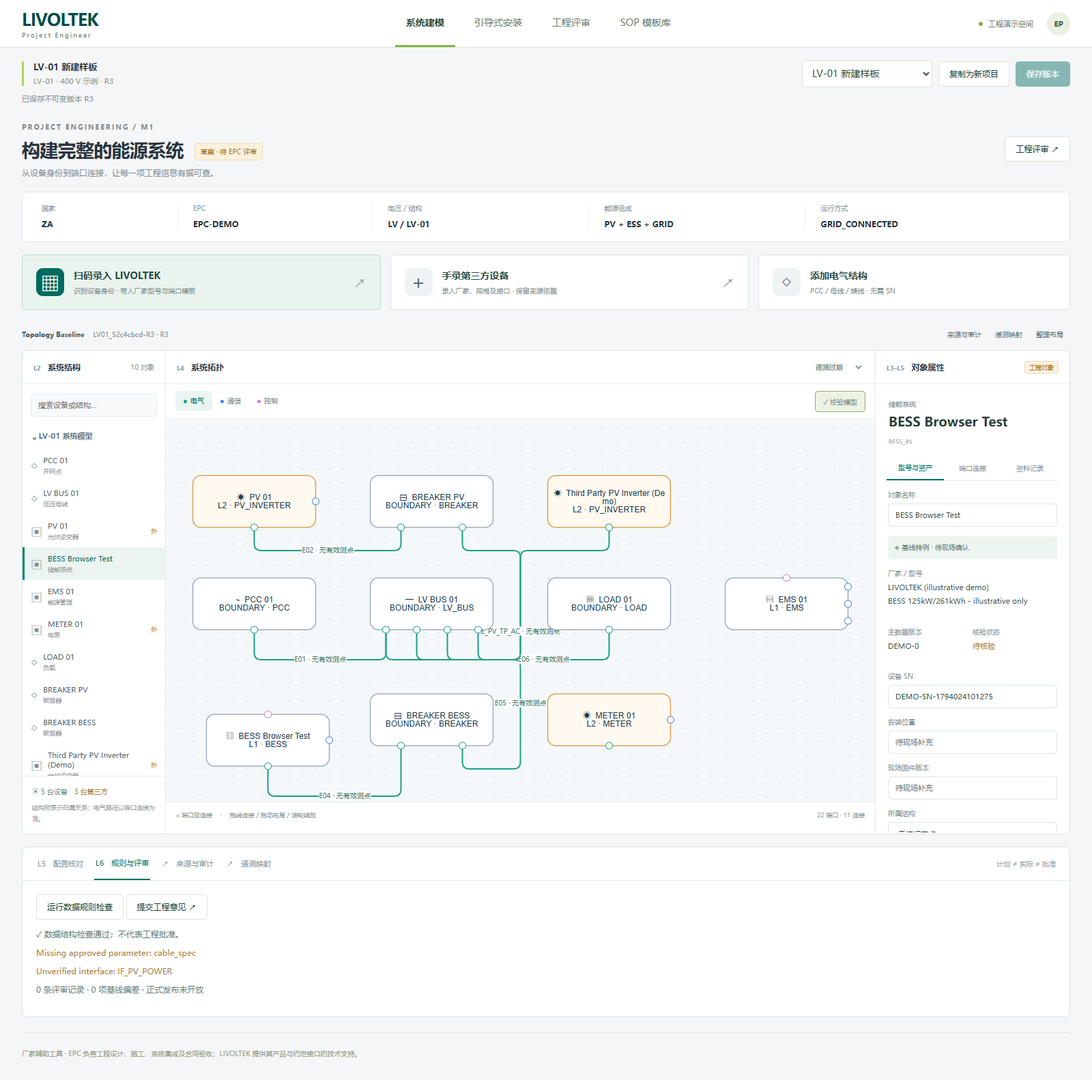
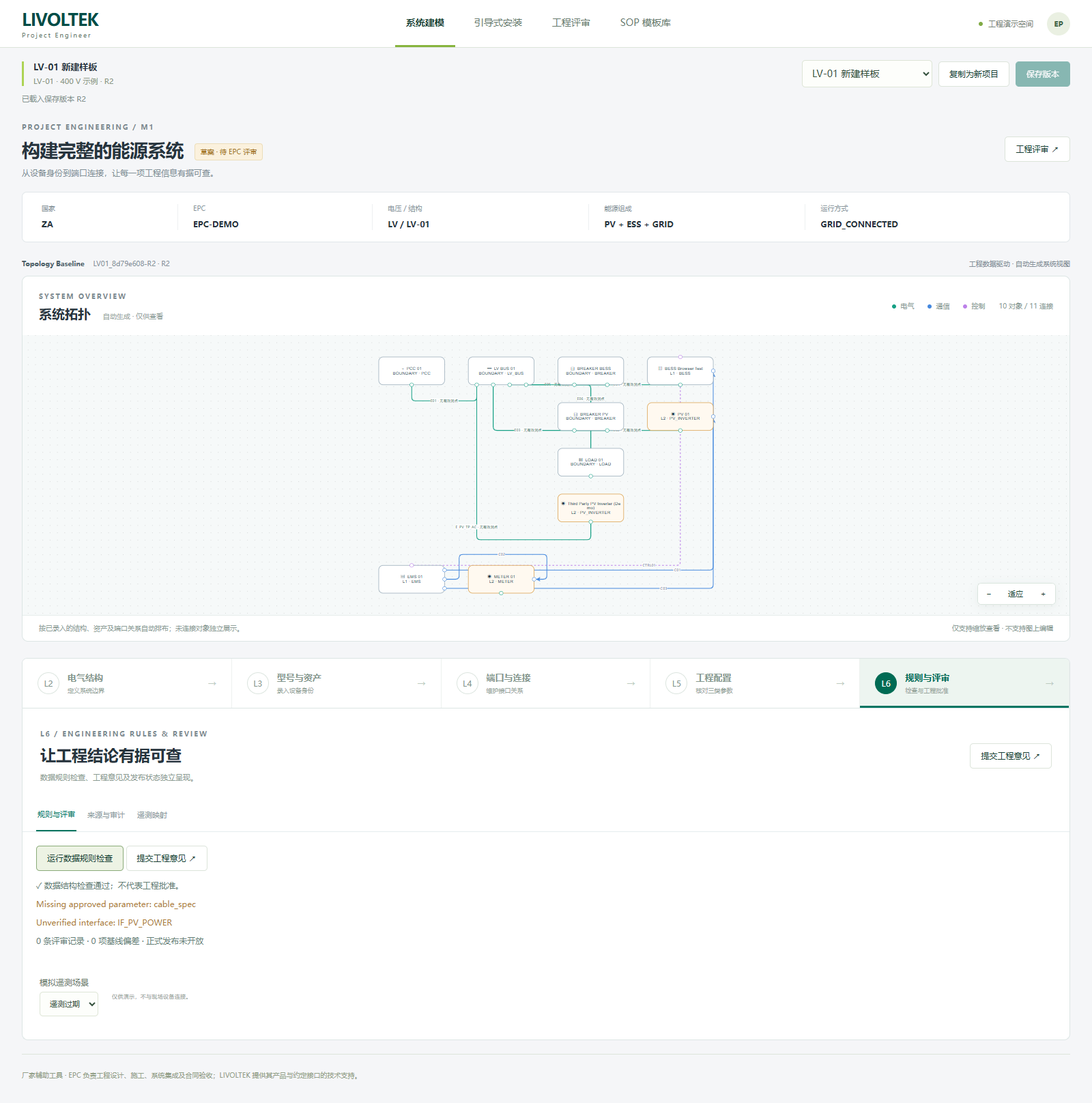
Organize M1 into L2-L6 workflows with generated read-only topology

diff --git a/frontend/src/M1.tsx b/frontend/src/M1.tsx
@@ -13,10 +13,11 @@ const uid=(s:string)=>s+'_'+crypto.randomUUID().slice(0,8)
 const demoCode='LIVOLTEK:DEMO-BESS-125:DEMO-SN-0001'
 export function M1({model,change,selected,select,flows,review,reviews,revision,scenario,setScenario}:Props){
  const [mode,setMode]=useState<'scan'|'manual'|'structure'|null>(null),[layer,setLayer]=useState<Kind>('ELECTRICAL'),[panel,setPanel]=useState('型号与资产'),[bottom,setBottom]=useState('配置核对')
+ const [stage,setStage]=useState('L2')
  const [from,setFrom]=useState(''),[to,setTo]=useState('')
  const [search,setSearch]=useState(''),[code,setCode]=useState(''),[resolved,setResolved]=useState(false),[error,setError]=useState(''),[result,setResult]=useState<{valid:boolean;errors:string[];warnings:string[]}|null>(null)
  const [form,setForm]=useState({name:'',manufacturer:'',model:'',sn:'',firmware:'',location:'',type:'PV_INVERTER',parent:'',document:'',domains:['AC','RS485'] as string[]})
- const canvasModel=useMemo(()=>({...model,view_layout:{...model.view_layout,layer_visibility:{ELECTRICAL:layer==='ELECTRICAL',COMMUNICATION:layer==='COMMUNICATION',CONTROL:layer==='CONTROL'}}}),[model,layer])
+ const canvasModel=useMemo(()=>({...model,view_layout:{...model.view_layout,layer_visibility:{ELECTRICAL:true,COMMUNICATION:true,CONTROL:true}}}),[model])
  const node=model.nodes.find(n=>n.node_id===selected),asset=model.device_assets.find(a=>a.asset_id===node?.device_asset_id),device=model.device_models.find(d=>d.model_id===asset?.model_id),edge=model.edges.find(e=>e.edge_id===selected)
  const ports=model.ports.filter(p=>p.node_id===selected),parameters=model.parameters as Parameter[]
  const third=model.device_assets.filter(a=>a.equipment_origin==='THIRD_PARTY').length
@@ -34,27 +35,29 @@ export function M1({model,change,selected,select,flows,review,reviews,revision,s
   m.nodes.push({node_id:nid,logical_id:nid,name:form.name.trim(),node_type:form.type,parent_node_id:form.parent||null,zone_id:form.parent?m.nodes.find(n=>n.node_id===form.parent)?.zone_id||null:null,device_asset_id:structure?null:aid,icon_key:form.type.toLowerCase(),relationship_reason:'ENERGY_PATH',attributes:{entry_method:mode==='scan'?'QR_DEMO':mode==='manual'?'MANUAL':'STRUCTURE',recorded_at:new Date().toISOString(),source_ref:form.document||'待补充',source_quality:'UNVERIFIED'}})
   if(!structure){m.device_models.push({model_id:mid,manufacturer:form.manufacturer.trim(),model_name:form.model.trim(),master_data_version:mode==='scan'?'DEMO-1':'MANUAL-DRAFT-1',source_quality:'UNVERIFIED',datasheet_ref:form.document||null,...(mode==='scan'?{rated_parameters:{rated_power:{value:125,unit:'kW',source:'MASTER_DATA',status:'DRAFT',source_ref:'DEMO-CATALOG-1'},capacity:{value:261,unit:'kWh',source:'MASTER_DATA',status:'DRAFT',source_ref:'DEMO-CATALOG-1'}}}:{})});m.device_assets.push({asset_id:aid,model_id:mid,serial_number:form.sn.trim()||null,sn_status:mode==='scan'?'SCANNED':'PENDING',firmware_version:form.firmware||null,installed_location:form.location||null,lifecycle_status:'PLANNED',equipment_origin:mode==='scan'?'LIVOLTEK':'THIRD_PARTY',modeling_level:mode==='scan'?'L1_FULL':'L2_INTERFACE',responsibility_owner:mode==='scan'?'LIVOLTEK 产品支持 / EPC 系统工程':'EPC / 第三方厂家',authorization:{read_allowed:false,write_allowed:false,test_execution_allowed:false}})}
   for(const d of form.domains)m.ports.push({port_id:nid+'.'+d,node_id:nid,name:d,domain:d,role:'BIDIRECTIONAL',attributes:{source:mode==='scan'?'DEMO_TEMPLATE':'MANUAL',verified:false}})
-  m.view_layout.positions[nid]={x:80+(m.nodes.length%4)*220,y:650+Math.floor(m.nodes.length/4)*110};change(m);select(nid);setMode(null)
+  m.view_layout.positions[nid]={x:80+(m.nodes.length%4)*220,y:650+Math.floor(m.nodes.length/4)*110};change(m);select(nid);setStage(structure?'L2':'L3');setPanel('型号与资产');setMode(null)
  }
- async function validate(){try{setResult(await api('/validate',model));setBottom('规则与评审')}catch(e){setError(String(e))}}
+ async function validate(){try{setResult(await api('/validate',model));setBottom('规则与评审');setStage('L6')}catch(e){setError(String(e))}}
  function tree(parent:string|null,depth=0,seen=new Set<string>()):React.ReactNode{return model.nodes.filter(n=>(n.parent_node_id||null)===parent&&!seen.has(n.node_id)).map(n=>{const next=new Set(seen).add(n.node_id);const a=model.device_assets.find(a=>a.asset_id===n.device_asset_id);return <div key={n.node_id}><button className={'treeNode '+(selected===n.node_id?'chosen':'')} style={{paddingLeft:12+depth*13}} onClick={()=>select(n.node_id)}><span className="treeIcon">{n.device_asset_id?'▣':'◇'}</span><span>{n.name}<small>{labels[n.node_type]||n.node_type}</small></span>{a?.equipment_origin==='THIRD_PARTY'&&<i>外</i>}</button>{depth<15&&tree(n.node_id,depth+1,next)}</div>})}
  return <section className="m1">
   <div className="m1Title"><div><span className="kicker">PROJECT ENGINEERING / M1</span><h1>构建完整的能源系统<span className="draft">草案 · 待 EPC 评审</span></h1><p>从设备身份到端口连接，让每一项工程信息有据可查。</p></div><button onClick={review}>工程评审 ↗</button></div>
   <div className="projectFacts">{[['国家',String(model.project.country_code)],['EPC',String(model.project.epc_org_id)],['电压 / 结构',`${model.project.voltage_level} / ${model.project.structure_code}`],['能源组成',(model.project.energy_features as string[]).join(' + ')],['运行方式',(model.project.operation_modes as string[]).join(' / ')]].map(([k,v])=><div key={k}><small>{k}</small><strong>{v}</strong></div>)}</div>
-  <div className="intake"><button className="scanEntry" onClick={()=>open('scan')}><span className="entryIcon">▦</span><span><strong>扫码录入 LIVOLTEK</strong><small>识别设备身份 · 带入厂家型号与端口模板</small></span><b>↗</b></button><button onClick={()=>open('manual')}><span className="entryIcon">＋</span><span><strong>手录第三方设备</strong><small>录入厂家、规格及接口 · 保留来源依据</small></span><b>↗</b></button><button className="structureEntry" onClick={()=>open('structure')}><span className="entryIcon">◇</span><span><strong>添加电气结构</strong><small>PCC / 母线 / 馈线 · 无需 SN</small></span></button></div>
-  <div className="crossbar"><span><b>Topology Baseline</b> {model.baseline.baseline_id} · R{revision}</span><div><button onClick={()=>{setBottom('来源与审计')}}>来源与审计</button><button onClick={()=>setBottom('遥测映射')}>遥测映射</button><button onClick={()=>edit(m=>{m.nodes.forEach((n,i)=>m.view_layout.positions[n.node_id]={x:70+(i%4)*240,y:70+Math.floor(i/4)*180})})}>整理布局</button></div></div>
-  <div className="workbench"><aside className="systemTree"><div className="paneHeading"><span><em>L2</em> 系统结构</span><small>{model.nodes.length} 对象</small></div><input aria-label="搜索系统对象" placeholder="搜索设备或结构…" value={search} onChange={e=>setSearch(e.target.value)}/><div className="treeRoot">⌄ {model.project.structure_code} 系统模型</div><div className="treeScroll">{search?model.nodes.filter(n=>n.name.toLowerCase().includes(search.toLowerCase())).map(n=><button className="treeNode" key={n.node_id} onClick={()=>select(n.node_id)}>{n.name}</button>):tree(null)}</div><div className="treeFoot"><span>▣ {model.device_assets.length} 台设备</span><span className="amberText">{third} 台第三方</span><p>结构树表示归属关系；电气路径以端口连接为准。</p></div></aside>
-  <section className="topologyPane"><div className="paneHeading"><span><em>L4</em> 系统拓扑</span><select className="telemetrySelect" aria-label="模拟遥测" value={scenario} onChange={e=>setScenario(e.target.value)}>{[['normal','● 正常模拟'],['reverse','反向模拟'],['stale','遥测过期'],['missing','缺测']].map(([v,n])=><option key={v} value={v}>{n}</option>)}</select></div><div className="canvasTools"><div>{kinds.map(k=><button key={k} className={layer===k?'selectedLayer':''} onClick={()=>{setLayer(k);edit(m=>{for(const l of kinds)m.view_layout.layer_visibility[l]=l===k})}}><i style={{background:colors[k]}}/>{kindName[k]}</button>)}</div><button onClick={validate}>✓ 校验模型</button></div><Topology model={canvasModel} onChange={change} onSelect={select} layer={layer} flows={flows}/><div className="canvasLegend"><span>○ 端口级连接　 ·　 拖线连接 / 拖动布局 / 滚轮缩放</span><span>{model.ports.length} 端口 · {model.edges.length} 连接</span></div></section>
-  <aside className="detailPane"><div className="paneHeading"><span><em>L3–L5</em> 对象属性</span><span className="draft">{asset?.equipment_origin==='THIRD_PARTY'?'第三方':'工程对象'}</span></div><div className="objectTitle"><span>{node?labels[node.node_type]||node.node_type:'端口连接'}</span><h2>{node?.name||edge?.edge_id||'选择一个对象'}</h2><small>{selected}</small></div><div className="detailTabs">{['型号与资产','端口连接','资料记录'].map(t=><button key={t} className={panel===t?'active':''} onClick={()=>setPanel(t)}>{t}</button>)}</div>
-   {node&&panel==='型号与资产'&&<div className="detailBody"><label>对象名称<input aria-label="设备名称" value={node.name} onChange={e=>edit(m=>{m.nodes.find(n=>n.node_id===selected)!.name=e.target.value})}/></label>{asset?<><div className="sourceChip">{node.attributes?.entry_method==='QR_DEMO'?'▦ 扫码导入 · 演示主数据':asset.equipment_origin==='THIRD_PARTY'?'✎ 第三方录入 · 待核验':'◈ 基线样例 · 待现场确认'}</div><label>厂家 / 型号<strong className="readValue">{device?.manufacturer}<br/>{device?.model_name}</strong></label><div className="fieldPair"><label>主数据版本<strong className="readValue">{device?.master_data_version}</strong></label><label>核验状态<strong className="readValue amberText">{String(device?.source_quality||'待核验')}</strong></label></div><label>设备 SN<input aria-label="设备序列号" placeholder="待现场录入" value={asset.serial_number||''} onChange={e=>edit(m=>{const a=m.device_assets.find(a=>a.asset_id===asset.asset_id)!;a.serial_number=e.target.value||null;a.sn_status='PENDING'})}/></label>{(['installed_location','firmware_version'] as const).map((k,i)=><label key={k}>{i?'现场固件版本':'安装位置'}<input value={asset[k]||''} placeholder="待现场补充" onChange={e=>edit(m=>{m.device_assets.find(a=>a.asset_id===asset.asset_id)![k]=e.target.value||null})}/></label>)}</>:<div className="sourceChip">非 SN 电气结构对象，无需设备序列号。</div>}<label>所属结构<select value={node.parent_node_id||''} onChange={e=>edit(m=>{m.nodes.find(n=>n.node_id===selected)!.parent_node_id=e.target.value||null})}><option value="">系统根节点</option>{model.nodes.filter(n=>!n.device_asset_id&&n.node_id!==selected&&!(()=>{let p=n.parent_node_id;const seen=new Set<string>();while(p&&!seen.has(p)){if(p===selected)return true;seen.add(p);p=model.nodes.find(x=>x.node_id===p)?.parent_node_id||null}return false})()).map(n=><option key={n.node_id} value={n.node_id}>{n.name}</option>)}</select></label><div className="responsibility">EPC 负责系统设计与现场集成。厂家资料及扫码信息不代表工程批准。</div></div>}
-   {panel==='端口连接'&&<div className="detailBody">{ports.map(p=><div className="portRow" key={p.port_id}><b>{p.name}</b><span>{p.domain}</span><small>{p.port_id}</small></div>)}{edge&&<><p>来源：{edge.from_port_id}</p><p>目标：{edge.to_port_id}</p><label>设计依据<input value={edge.design_ref||''} onChange={e=>edit(m=>{m.edges.find(x=>x.edge_id===selected)!.design_ref=e.target.value||null})}/></label></>}<p className="muted">拖动同域端口，或使用精确连接。</p><label>来源端口<select aria-label="来源端口" value={from} onChange={e=>setFrom(e.target.value)}><option value="">选择来源</option>{model.ports.map(p=><option key={p.port_id}>{p.port_id}</option>)}</select></label><label>目标端口<select aria-label="目标端口" value={to} onChange={e=>setTo(e.target.value)}><option value="">选择目标</option>{model.ports.map(p=><option key={p.port_id}>{p.port_id}</option>)}</select></label><button disabled={!from||!to} onClick={async()=>{try{const m=structuredClone(model);m.edges.push({edge_id:uid('EDGE'),edge_type:layer,from_port_id:from,to_port_id:to,review_status:'DRAFT'});const v=await api<{valid:boolean;errors:string[]}>('/validate',m);if(!v.valid){setError(v.errors.join('; '));return}change(m);setError('');setFrom('');setTo('')}catch(e){setError(String(e))}}}>添加连接</button></div>}
+  <div className="crossbar"><span><b>Topology Baseline</b> {model.baseline.baseline_id} · R{revision}</span><span>工程数据驱动 · 自动生成系统视图</span></div>
+  <section className="systemOverview" aria-label="自动生成系统拓扑"><div className="overviewHeading"><div><span className="kicker">SYSTEM OVERVIEW</span><h2>系统拓扑 <span>自动生成 · 仅供查看</span></h2></div><div className="staticLegend">{kinds.map(k=><span key={k}><i style={{background:colors[k]}}/>{kindName[k]}</span>)}<span>{model.nodes.length} 对象 / {model.edges.length} 连接</span></div></div><Topology model={canvasModel} flows={flows}/><div className="overviewFoot"><span>按已录入的结构、资产及端口关系自动排布；未连接对象独立展示。</span><span>仅支持缩放查看 · 不支持图上编辑</span></div></section>
+  <nav className="stageNav" aria-label="工程数据分层">{[['L2','电气结构','定义系统边界'],['L3','型号与资产','录入设备身份'],['L4','端口与连接','维护接口关系'],['L5','工程配置','核对三类参数'],['L6','规则与评审','检查与工程批准']].map(([id,title,description])=><button key={id} className={stage===id?'active':''} aria-current={stage===id?'step':undefined} onClick={()=>{setStage(id);setError('');if(id==='L3'&&!asset)select(model.nodes.find(n=>n.device_asset_id)?.node_id||selected);if(id==='L6')setBottom('规则与评审')}}><b>{id}</b><span>{title}<small>{description}</small></span><i>→</i></button>)}</nav>
+  <section className="stageContent" aria-label={stage+' 作业区'}>
+   {stage==='L2'&&<><div className="stageHeading"><div><span className="kicker">L2 / ELECTRICAL STRUCTURE</span><h2>从电气结构开始</h2><p>定义 PCC、变压器区域、母线、馈线和断路器。结构对象无需 SN。</p></div><button className="primary" onClick={()=>open('structure')}>＋ 添加电气结构</button></div><div className="tableScroll"><table className="layerTable"><thead><tr><th>结构对象</th><th>类型</th><th>所属结构</th><th>端口数</th><th>来源</th></tr></thead><tbody>{model.nodes.filter(n=>!n.device_asset_id).map(n=><tr key={n.node_id}><td><input aria-label={'结构名称 '+n.node_id} value={n.name} onChange={e=>edit(m=>{m.nodes.find(x=>x.node_id===n.node_id)!.name=e.target.value})}/><small>{n.node_id}</small></td><td>{labels[n.node_type]||n.node_type}</td><td>{model.nodes.find(x=>x.node_id===n.parent_node_id)?.name||'系统根节点'}</td><td>{model.ports.filter(p=>p.node_id===n.node_id).length}</td><td><span className="sourceBadge">{n.attributes?.entry_method==='STRUCTURE'?'手动录入':'基线导入'}</span></td></tr>)}</tbody></table></div><div className="stageNext"><span>完成结构定义后，在 L3 录入并归属设备。</span><button onClick={()=>setStage('L3')}>继续：型号与资产 →</button></div></>}
+   {stage==='L3'&&<><div className="stageHeading"><div><span className="kicker">L3 / DEVICE MODEL & ASSET</span><h2>让设备进入系统</h2><p>{model.device_assets.length} 台设备 · {third} 台第三方 · 型号主数据与现场资产信息分别记录。</p></div><div className="stageActions"><button className="primary" onClick={()=>open('scan')}>▦ 扫码录入 LIVOLTEK</button><button onClick={()=>open('manual')}>＋ 手录第三方设备</button></div></div><div className="tableScroll"><table className="layerTable"><thead><tr><th>设备</th><th>厂家 / 型号</th><th>SN</th><th>录入来源</th><th>现场位置</th><th>详情</th></tr></thead><tbody>{model.nodes.filter(n=>n.device_asset_id).map(n=>{const a=model.device_assets.find(a=>a.asset_id===n.device_asset_id),d=model.device_models.find(d=>d.model_id===a?.model_id);return <tr key={n.node_id} className={selected===n.node_id?'selectedRow':''}><td><b>{n.name}</b><small>{labels[n.node_type]||n.node_type}</small></td><td>{d?.manufacturer}<small>{d?.model_name}</small></td><td>{a?.serial_number||'待录入'}</td><td><span className="sourceBadge">{n.attributes?.entry_method==='QR_DEMO'?'扫码 · 演示':n.attributes?.entry_method==='MANUAL'?'第三方手录':'基线导入'}</span></td><td>{a?.installed_location||'待补充'}</td><td><button aria-label={'查看设备 '+n.name} onClick={()=>{select(n.node_id);setPanel('型号与资产')}}>查看 / 补录</button></td></tr>})}</tbody></table></div><div className="inlineDetails"><div className="objectTitle"><span>当前设备</span><h2>{node?.name||'选择设备'}</h2><small>{selected}</small></div><div className="detailTabs">{['型号与资产','资料记录'].map(t=><button key={t} className={panel===t?'active':''} onClick={()=>setPanel(t)}>{t}</button>)}</div>   {node&&panel==='型号与资产'&&<div className="detailBody"><label>对象名称<input aria-label="设备名称" value={node.name} onChange={e=>edit(m=>{m.nodes.find(n=>n.node_id===selected)!.name=e.target.value})}/></label>{asset?<><div className="sourceChip">{node.attributes?.entry_method==='QR_DEMO'?'▦ 扫码导入 · 演示主数据':asset.equipment_origin==='THIRD_PARTY'?'✎ 第三方录入 · 待核验':'◈ 基线样例 · 待现场确认'}</div><label>厂家 / 型号<strong className="readValue">{device?.manufacturer}<br/>{device?.model_name}</strong></label><div className="fieldPair"><label>主数据版本<strong className="readValue">{device?.master_data_version}</strong></label><label>核验状态<strong className="readValue amberText">{String(device?.source_quality||'待核验')}</strong></label></div><label>设备 SN<input aria-label="设备序列号" placeholder="待现场录入" value={asset.serial_number||''} onChange={e=>edit(m=>{const a=m.device_assets.find(a=>a.asset_id===asset.asset_id)!;a.serial_number=e.target.value||null;a.sn_status='PENDING'})}/></label>{(['installed_location','firmware_version'] as const).map((k,i)=><label key={k}>{i?'现场固件版本':'安装位置'}<input value={asset[k]||''} placeholder="待现场补充" onChange={e=>edit(m=>{m.device_assets.find(a=>a.asset_id===asset.asset_id)![k]=e.target.value||null})}/></label>)}</>:<div className="sourceChip">非 SN 电气结构对象，无需设备序列号。</div>}<label>所属结构<select value={node.parent_node_id||''} onChange={e=>edit(m=>{m.nodes.find(n=>n.node_id===selected)!.parent_node_id=e.target.value||null})}><option value="">系统根节点</option>{model.nodes.filter(n=>!n.device_asset_id&&n.node_id!==selected&&!(()=>{let p=n.parent_node_id;const seen=new Set<string>();while(p&&!seen.has(p)){if(p===selected)return true;seen.add(p);p=model.nodes.find(x=>x.node_id===p)?.parent_node_id||null}return false})()).map(n=><option key={n.node_id} value={n.node_id}>{n.name}</option>)}</select></label><div className="responsibility">EPC 负责系统设计与现场集成。厂家资料及扫码信息不代表工程批准。</div></div>}
    {panel==='资料记录'&&<div className="detailBody"><h4>数据来源</h4><p>{String(node?.attributes?.entry_method||'基线文件导入')}</p><p>{String(node?.attributes?.recorded_at||'随项目基线保存')}</p><h4>文档依据</h4><p>{String(device?.datasheet_ref||node?.attributes?.source_ref||'待补充')}</p><h4>规格 / 厂家主数据</h4><pre>{JSON.stringify(device?.rated_parameters||{},null,2)}</pre><p className="muted">设备能力不等于操作授权。当前 Demo 不向设备下发指令。</p></div>}
-  </aside></div>
-  <section className="engineeringBottom"><div className="bottomTabs">{['配置核对','规则与评审','来源与审计','遥测映射'].map(t=><button className={bottom===t?'active':''} key={t} onClick={()=>setBottom(t)}>{t==='配置核对'?'L5':t==='规则与评审'?'L6':'↗'}　{t}</button>)}<span>计划 ≠ 实际 ≠ 批准</span></div>
-   {bottom==='配置核对'&&<div className="tableScroll"><table><thead><tr><th>参数 / 对象</th><th>计划值</th><th>现场实际值</th><th>批准值</th><th>风险 / 文档依据</th></tr></thead><tbody>{parameters.map(p=><tr key={p.parameter_id}><td><b>{p.name==='nominal_ac_voltage'?'系统额定电压':p.name==='cable_spec'?'电缆规格':p.name}</b><small>{p.owner_id}</small></td>{(['planned','actual','approved'] as const).map(k=><td key={k}>{p[k]?<><strong>{p[k]!.value} {p[k]!.unit}</strong><small>{p[k]!.source} · {p[k]!.status||'DRAFT'}</small></>:<span className="muted">{k==='approved'?'待 EPC 批准':'待补录'}</span>}</td>)}<td><span className={p.criticality==='SAFETY_CRITICAL'?'amberText':''}>{p.criticality==='SAFETY_CRITICAL'?'安全关键':'常规'}</span><small>{p.reference_doc||'文档待补充'}</small></td></tr>)}</tbody></table></div>}
-   {bottom==='规则与评审'&&<div className="bottomContent"><button onClick={validate}>运行数据规则检查</button> <button onClick={review}>提交工程意见 ↗</button><p>{result?(result.valid?'✓ 数据结构检查通过；不代表工程批准。':result.errors.join('；')):'尚未对当前修改执行规则检查。'}</p>{result?.warnings.map((w,i)=><p key={i} className="amberText">{w}</p>)}<p>{reviews.length} 条评审记录 · {(model.deviations as unknown[]).length} 项基线偏差 · 正式发布未开放</p></div>}
+</div><div className="stageNext"><span>扫码或手录只完成建档，不代表资料已核验或工程已批准。</span><button onClick={()=>setStage('L4')}>继续：端口与连接 →</button></div></>}
+   {stage==='L4'&&<><div className="stageHeading"><div><span className="kicker">L4 / PORT & CONNECTION</span><h2>以端口记录连接关系</h2><p>电气、通信与控制关系分域维护。保存的数据自动反映在上方拓扑中。</p></div><select aria-label="连接类型" value={layer} onChange={e=>setLayer(e.target.value as Kind)}>{kinds.map(k=><option key={k} value={k}>{kindName[k]}连接</option>)}</select></div><div className="tableScroll"><table className="layerTable"><thead><tr><th>连接</th><th>类型</th><th>来源端口</th><th>目标端口</th><th>状态</th></tr></thead><tbody>{model.edges.map(e=><tr key={e.edge_id}><td>{e.edge_id}</td><td>{kindName[e.edge_type]}</td><td>{e.from_port_id}</td><td>{e.to_port_id}</td><td>{e.review_status}</td></tr>)}</tbody></table></div><details className="connectionRecords"><summary>维护端口记录与新增连接</summary><label>设备 / 结构<select aria-label="端口所属对象" value={selected} onChange={e=>select(e.target.value)}>{model.nodes.map(n=><option key={n.node_id} value={n.node_id}>{n.name}</option>)}</select></label>   {stage==='L4'&&<div className="detailBody">{ports.map(p=><div className="portRow" key={p.port_id}><b>{p.name}</b><span>{p.domain}</span><small>{p.port_id}</small></div>)}{edge&&<><p>来源：{edge.from_port_id}</p><p>目标：{edge.to_port_id}</p><label>设计依据<input value={edge.design_ref||''} onChange={e=>edit(m=>{m.edges.find(x=>x.edge_id===selected)!.design_ref=e.target.value||null})}/></label></>}<p className="muted">在端口记录中维护关系，系统据此自动生成拓扑。</p><label>来源端口<select aria-label="来源端口" value={from} onChange={e=>setFrom(e.target.value)}><option value="">选择来源</option>{model.ports.map(p=><option key={p.port_id}>{p.port_id}</option>)}</select></label><label>目标端口<select aria-label="目标端口" value={to} onChange={e=>setTo(e.target.value)}><option value="">选择目标</option>{model.ports.map(p=><option key={p.port_id}>{p.port_id}</option>)}</select></label><button disabled={!from||!to} onClick={async()=>{try{const m=structuredClone(model);m.edges.push({edge_id:uid('EDGE'),edge_type:layer,from_port_id:from,to_port_id:to,review_status:'DRAFT'});const v=await api<{valid:boolean;errors:string[]}>('/validate',m);if(!v.valid){setError(v.errors.join('; '));return}change(m);setError('');setFrom('');setTo('')}catch(e){setError(String(e))}}}>添加连接</button></div>}
+</details></>}
+   {stage==='L5'&&<><div className="stageHeading"><div><span className="kicker">L5 / CONFIGURATION</span><h2>计划、现场与批准，分别核对</h2><p>保留单位、来源、风险等级与文档依据；当前阶段提供参数对照。</p></div><span className="sourceBadge">批准值由工程评审确认</span></div>   {stage==='L5'&&<div className="tableScroll"><table><thead><tr><th>参数 / 对象</th><th>计划值</th><th>现场实际值</th><th>批准值</th><th>风险 / 文档依据</th></tr></thead><tbody>{parameters.map(p=><tr key={p.parameter_id}><td><b>{p.name==='nominal_ac_voltage'?'系统额定电压':p.name==='cable_spec'?'电缆规格':p.name}</b><small>{p.owner_id}</small></td>{(['planned','actual','approved'] as const).map(k=><td key={k}>{p[k]?<><strong>{p[k]!.value} {p[k]!.unit}</strong><small>{p[k]!.source} · {p[k]!.status||'DRAFT'}</small></>:<span className="muted">{k==='approved'?'待 EPC 批准':'待补录'}</span>}</td>)}<td><span className={p.criticality==='SAFETY_CRITICAL'?'amberText':''}>{p.criticality==='SAFETY_CRITICAL'?'安全关键':'常规'}</span><small>{p.reference_doc||'文档待补充'}</small></td></tr>)}</tbody></table></div>}
+</>}
+   {stage==='L6'&&<><div className="stageHeading"><div><span className="kicker">L6 / ENGINEERING RULES & REVIEW</span><h2>让工程结论有据可查</h2><p>数据规则检查、工程意见及发布状态独立呈现。</p></div><button onClick={review}>提交工程意见 ↗</button></div><div className="bottomTabs">{['规则与评审','来源与审计','遥测映射'].map(t=><button key={t} className={bottom===t?'active':''} onClick={()=>setBottom(t)}>{t}</button>)}</div>   {bottom==='规则与评审'&&<div className="bottomContent"><button onClick={validate}>运行数据规则检查</button> <button onClick={review}>提交工程意见 ↗</button><p>{result?(result.valid?'✓ 数据结构检查通过；不代表工程批准。':result.errors.join('；')):'尚未对当前修改执行规则检查。'}</p>{result?.warnings.map((w,i)=><p key={i} className="amberText">{w}</p>)}<p>{reviews.length} 条评审记录 · {(model.deviations as unknown[]).length} 项基线偏差 · 正式发布未开放</p></div>}
    {bottom==='来源与审计'&&<div className="bottomContent"><p>当前保存版本 R{revision} · 新增对象记录录入方式、时间及文档引用；保存版本后进入持久化历史。</p><button onClick={review}>查看版本与评审历史 ↗</button>{model.nodes.filter(n=>n.attributes?.entry_method).map(n=><p key={n.node_id}>{n.name} · {String(n.attributes?.entry_method)} · {String(n.attributes?.recorded_at)}</p>)}</div>}
    {bottom==='遥测映射'&&<div className="bottomContent"><p>仅用于演示功率流；无有效映射时不生成测量值。</p><pre>{JSON.stringify(model.telemetry_bindings,null,2)}</pre></div>}
+<div className="simulationSettings"><label>模拟遥测场景<select aria-label="模拟遥测" value={scenario} onChange={e=>setScenario(e.target.value)}>{[['normal','正常模拟'],['reverse','反向模拟'],['stale','遥测过期'],['missing','缺测']].map(([v,n])=><option key={v} value={v}>{n}</option>)}</select></label><small>仅供演示，不与现场设备连接。</small></div></>}
   </section>
   {error&&!mode&&<p role="alert">{error}</p>}
   {mode&&<div className="modalShade"><section className="intakeModal" role="dialog" aria-modal="true" aria-label={mode==='scan'?'扫码录入':mode==='manual'?'第三方设备手录':'添加电气结构'}><div className="modalHead"><div><span className="kicker">{mode==='scan'?'LIVOLTEK DEVICE ID':mode==='manual'?'THIRD-PARTY EQUIPMENT':'ELECTRICAL STRUCTURE'}</span><h2>{mode==='scan'?'扫码识别，快速建档':mode==='manual'?'录入第三方设备':'添加非 SN 电气对象'}</h2></div><button aria-label="关闭录入" onClick={()=>setMode(null)}>×</button></div>

diff --git a/frontend/src/Topology.tsx b/frontend/src/Topology.tsx
@@ -4,43 +4,41 @@ import type {Model,Kind,Flow} from './types'
 
 export const colors:Record<Kind,string>={ELECTRICAL:'#16a085',COMMUNICATION:'#4488de',CONTROL:'#bc81e9'}
 const symbols:Record<string,string>={PCC:'⌁',BESS:'▥',EMS:'▤',METER:'◉',PV_INVERTER:'☀',LOAD:'▦',BREAKER:'⊟',LV_BUS:'━',GENERATOR:'G',ATS:'⇄',TRANSFORMER:'◎'}
-export function Topology({model,onChange,onSelect,layer,flows}:{model:Model;onChange:(m:Model)=>void;onSelect:(id:string)=>void;layer:Kind;flows:Record<string,Flow>}) {
+// Display geometry is derived from recorded connections, never written back to the model.
+export function automaticPositions(model:Model){
+ const adjacency=new Map(model.nodes.map(n=>[n.node_id,new Set<string>()]))
+ const owner=new Map(model.ports.map(p=>[p.port_id,p.node_id]))
+ for(const e of model.edges.filter(e=>e.edge_type==='ELECTRICAL')){const a=owner.get(e.from_port_id),b=owner.get(e.to_port_id);if(a&&b&&a!==b){adjacency.get(a)?.add(b);adjacency.get(b)?.add(a)}}
+ const ranks=new Map<string,number>(),queue:string[]=[]
+ for(const n of model.nodes.filter(n=>n.node_type==='PCC').sort((a,b)=>a.node_id.localeCompare(b.node_id))){ranks.set(n.node_id,0);queue.push(n.node_id)}
+ for(let i=0;i<queue.length;i++){const id=queue[i];for(const next of [...(adjacency.get(id)||[])].sort()){if(!ranks.has(next)){ranks.set(next,ranks.get(id)!+1);queue.push(next)}}}
+ const groups=new Map<number,string[]>()
+ for(const n of [...model.nodes].sort((a,b)=>a.node_id.localeCompare(b.node_id))){const rank=ranks.get(n.node_id)??-1;groups.set(rank,[...(groups.get(rank)||[]),n.node_id])}
+ const positions:Record<string,{x:number;y:number}>={}
+ const height=Math.max(1,...[...groups.entries()].filter(([r])=>r>=0).map(([,ids])=>ids.length))*125
+ for(const [rank,ids] of groups){ids.forEach((id,i)=>{positions[id]=rank<0?{x:(i%5)*245,y:height+70+Math.floor(i/5)*125}:{x:rank*245,y:i*125}})}
+ return positions
+}
+export function Topology({model,flows}:{model:Model;flows:Record<string,Flow>}) {
  const container=useRef<HTMLDivElement>(null)
  const graphRef=useRef<Graph|null>(null)
- const current=useRef({model,onChange,onSelect,layer});current.current={model,onChange,onSelect,layer}
- const rendering=useRef(false)
- const fitted=useRef(false)
- const nodeCount=useRef(0)
  useEffect(()=>{
-  const graph=new Graph({container:container.current!,width:container.current!.clientWidth,height:560,background:{color:'#f5f8fb'},grid:{visible:true,size:20},panning:true,mousewheel:{enabled:true,minScale:0.3,maxScale:2},
-   connecting:{snap:true,allowBlank:false,allowNode:false,allowLoop:false,allowMulti:false,
-    createEdge(){return this.createEdge({attrs:{line:{stroke:colors[current.current.layer],strokeWidth:2}},router:{name:'manhattan'},connector:{name:'rounded'}})},
-    validateConnection({sourcePort,targetPort}){
-     const {model,layer}=current.current
-     const a=model.ports.find(p=>p.port_id===sourcePort),b=model.ports.find(p=>p.port_id===targetPort)
-     if(!a||!b||a.node_id===b.node_id||a.domain!==b.domain)return false
-     if(layer==='CONTROL')return a.domain==='CONTROL_LOGICAL'&&a.role!=='IN'&&b.role!=='OUT'
-     return layer==='ELECTRICAL'?['AC','DC'].includes(a.domain):['ETHERNET','RS485','CAN','DIGITAL_IO','ANALOG_IO'].includes(a.domain)
-    }}})
+  const graph=new Graph({container:container.current!,width:container.current!.clientWidth,height:410,background:{color:'#f6f9f9'},grid:{visible:true,size:20},interacting:false,panning:false,mousewheel:{enabled:true,minScale:0.15,maxScale:3},connecting:{allowBlank:false,allowNode:false,allowPort:false,validateMagnet:()=>false}})
   graphRef.current=graph
-  const observer=new ResizeObserver(()=>{if(container.current)graph.resize(container.current.clientWidth,560)})
+  const observer=new ResizeObserver(()=>{if(container.current){graph.resize(container.current.clientWidth,410);graph.zoomToFit({padding:32,maxScale:1})}})
   observer.observe(container.current!)
-  graph.on('node:click',({node})=>current.current.onSelect(node.id))
-  graph.on('edge:click',({edge})=>current.current.onSelect(edge.id))
-  graph.on('node:moved',({node})=>{if(rendering.current)return;const m=structuredClone(current.current.model);m.view_layout.positions[node.id]=node.position();current.current.onChange(m)})
-  graph.on('edge:connected',({edge,isNew})=>{if(rendering.current||!isNew)return;const m=structuredClone(current.current.model);m.edges.push({edge_id:edge.id,edge_type:current.current.layer,from_port_id:edge.getSourcePortId()!,to_port_id:edge.getTargetPortId()!,review_status:'DRAFT',attributes:{},design_ref:null});current.current.onChange(m)})
-  return ()=>{observer.disconnect();graph.dispose();graphRef.current=null;fitted.current=false}
+  return ()=>{observer.disconnect();graph.dispose();graphRef.current=null}
  },[])
  useEffect(()=>{
   const graph=graphRef.current;if(!graph)return
-  rendering.current=true
+  const positions=automaticPositions(model)
   graph.clearCells()
   for(const n of model.nodes){
    const asset=model.device_assets.find(a=>a.asset_id===n.device_asset_id)
-   const pos=model.view_layout.positions[n.node_id]||{x:60,y:60}
+   const pos=positions[n.node_id]
    graph.addNode({id:n.node_id,x:pos.x,y:pos.y,width:180,height:76,shape:'rect',
     attrs:{body:{fill:asset?.equipment_origin==='THIRD_PARTY'?'#fff9f0':'#fff',stroke:asset?.equipment_origin==='THIRD_PARTY'?'#dba455':'#9dafbc',rx:12,ry:12,strokeWidth:1.5},label:{text:`${symbols[(n.icon_key||'').toUpperCase()]||symbols[n.node_type]||'◇'}  ${n.name}\n${asset?.modeling_level?.split('_')[0]||'BOUNDARY'} · ${n.node_type}`,fontSize:12,fill:'#203e50',textWrap:{width:162,height:65,ellipsis:true}}},
-    ports:{groups:{power:{position:'bottom',attrs:{circle:{r:5,magnet:true,stroke:colors.ELECTRICAL,fill:'#fff'}}},comm:{position:'right',attrs:{circle:{r:5,magnet:true,stroke:colors.COMMUNICATION,fill:'#fff'}}},control:{position:'top',attrs:{circle:{r:5,magnet:true,stroke:colors.CONTROL,fill:'#fff'}}}},
+    ports:{groups:{power:{position:'bottom',attrs:{circle:{r:5,magnet:false,stroke:colors.ELECTRICAL,fill:'#fff'}}},comm:{position:'right',attrs:{circle:{r:5,magnet:false,stroke:colors.COMMUNICATION,fill:'#fff'}}},control:{position:'top',attrs:{circle:{r:5,magnet:false,stroke:colors.CONTROL,fill:'#fff'}}}},
      items:model.ports.filter(p=>p.node_id===n.node_id).map(p=>({id:p.port_id,group:['AC','DC'].includes(p.domain)?'power':p.domain==='CONTROL_LOGICAL'?'control':'comm',attrs:{circle:{title:p.name+' · '+p.domain}}}))}})
   }
   for(const e of model.edges){
@@ -49,8 +47,7 @@ export function Topology({model,onChange,onSelect,layer,flows}:{model:Model;onCh
    if(!a||!b||!graph.getCellById(a.node_id)||!graph.getCellById(b.node_id))continue
    graph.addEdge({id:e.edge_id,source:{cell:a.node_id,port:a.port_id},target:{cell:b.node_id,port:b.port_id},router:{name:'manhattan',args:{padding:25}},connector:{name:'rounded'},zIndex:0,attrs:{line:{stroke:colors[e.edge_type],strokeWidth:2,strokeDasharray:e.edge_type==='CONTROL'?'5 5':undefined}},labels:[{attrs:{label:{text:e.edge_id,fill:'#668095',fontSize:10}}}]})
   }
-  rendering.current=false
-  if(!fitted.current||nodeCount.current!==model.nodes.length){graph.zoomToFit({padding:35,maxScale:1});fitted.current=true;nodeCount.current=model.nodes.length}
+  graph.zoomToFit({padding:32,maxScale:1})
  },[model])
  useEffect(()=>{
   for(const edge of graphRef.current?.getEdges()||[]){
@@ -63,5 +60,5 @@ export function Topology({model,onChange,onSelect,layer,flows}:{model:Model;onCh
    edge.setLabels([{attrs:{label:{text:f?.available?`${edge.id} · ${f.value} kW 模拟`:`${edge.id} · 无有效测点`,fill:'#397669',fontSize:10}}}])
   }
  },[flows,model])
- return <div className="canvas" ref={container} data-testid="topology-canvas"/>
+ return <div className="readonlyTopology"><div className="zoomControls" aria-label="拓扑缩放"><button aria-label="缩小拓扑" onClick={()=>graphRef.current?.zoom(-0.15,{minScale:0.15,maxScale:3})}>−</button><button aria-label="适应全部拓扑" onClick={()=>graphRef.current?.zoomToFit({padding:32,maxScale:1})}>适应</button><button aria-label="放大拓扑" onClick={()=>graphRef.current?.zoom(0.15,{minScale:0.15,maxScale:3})}>＋</button></div><div className="canvas" ref={container} data-testid="topology-canvas"/></div>
 }

diff --git a/frontend/src/m1.css b/frontend/src/m1.css
@@ -4,3 +4,6 @@
 @media(max-width:700px){.m1App main{padding:12px}.m1App .nav{height:auto;padding:15px 16px 0}.m1Title{align-items:start}.m1Title h1{font-size:22px}.m1Title .draft{display:table;margin:10px 0}.m1Title>button{padding:8px}.projectFacts{grid-template-columns:1fr 1fr;gap:14px}.projectFacts>div{border:0}.intake{grid-template-columns:1fr}.intake>button{padding:14px}.crossbar{display:block;line-height:1.9}.crossbar>div{margin-top:7px}.workbench{grid-template-columns:1fr}.systemTree{border:0}.treeScroll{height:160px}.treeFoot{display:none}.topologyPane{border-top:1px solid #ddd}.bottomTabs{gap:7px;padding:0 10px;flex-wrap:wrap}.bottomTabs button{font-size:10px}.bottomTabs>span{display:none}.formGrid{grid-template-columns:1fr}.modalShade{padding:10px}.modalHead,.modalBody,.modalFooter{padding:18px}.modalFooter span{display:none}.modalHead h2{font-size:21px}.canvasLegend{flex-direction:column}.projectBar .actions{gap:5px}}
 
 .telemetrySelect{width:auto;max-width:110px;font-size:10px;margin:0;padding:5px;border:0;background:transparent;color:#86988e}
+.systemOverview{background:white;border:1px solid #dce5e4;border-radius:9px;overflow:hidden}.overviewHeading{display:flex;justify-content:space-between;align-items:center;padding:19px 24px}.overviewHeading h2{margin:6px 0 0;font-size:19px}.overviewHeading h2 span{font-size:10px;font-weight:400;margin-left:12px;color:#9aa9a5}.staticLegend{display:flex;gap:20px;font-size:10px;color:#8b9c97}.staticLegend i{width:6px;height:6px;border-radius:50%;display:inline-block;margin-right:6px}.overviewFoot{display:flex;justify-content:space-between;gap:14px;font-size:10px;color:#8d9d97;padding:12px 24px;border-top:1px solid #e6edeb}.readonlyTopology{position:relative}.readonlyTopology .canvas{height:410px}.readonlyTopology .x6-node,.readonlyTopology .x6-edge,.readonlyTopology .x6-port-body{cursor:default!important}.zoomControls{position:absolute;z-index:2;right:20px;bottom:15px;display:flex;box-shadow:0 3px 15px #294c3412;border:1px solid #dae5de;background:#fff;border-radius:6px;overflow:hidden}.zoomControls button{padding:8px 12px;border:0;border-radius:0;font-size:11px}.stageNav{display:flex;gap:0;background:#fff;margin-top:24px;border:1px solid #dce5e4;border-radius:8px 8px 0 0;overflow:hidden}.stageNav>button{flex:1;display:flex;gap:12px;align-items:center;text-align:left;border:0;border-right:1px solid #edf1ef;border-radius:0;padding:20px 22px;color:#85978e;background:#fff}.stageNav>button>b{font-size:12px;display:grid;place-items:center;border:1px solid #dce5df;border-radius:50%;width:32px;height:32px;font-weight:500}.stageNav>button>span{font-size:13px;font-weight:600;white-space:normal}.stageNav small{display:block;font-size:9px;font-weight:400;color:#9aa99f;margin-top:5px}.stageNav i{font-style:normal;margin-left:auto;color:#bbcac0}.stageNav>button.active{background:#edf5f0;color:#006b54;box-shadow:inset 0 -3px #007562}.stageNav>button.active>b{background:#006b54;color:#fff;border-color:#006b54}.stageContent{background:white;border:1px solid #dce5e4;border-top:0;border-radius:0 0 9px 9px;overflow:hidden;min-height:360px}.stageHeading{display:flex;align-items:center;justify-content:space-between;gap:18px;padding:27px 26px 20px}.stageHeading h2{font-size:23px;margin:9px 0}.stageHeading p{color:#8b9b92;font-size:11px;margin:0;line-height:1.8}.stageActions{display:flex;gap:10px}.stageHeading>select{max-width:160px;font-size:12px}.layerTable{width:100%;border-collapse:collapse;text-align:left;font-size:11px}.layerTable th{font-weight:400;color:#8b9b94;padding:12px 25px;background:#f8faf9;font-size:10px}.layerTable td{padding:14px 25px;border-top:1px solid #edf1ef;color:#4b6257}.layerTable td small{display:block;font-size:9px;color:#9caaa2;margin-top:5px}.layerTable td input{border-color:transparent;background:transparent;margin:0;padding:5px 0;font-size:12px;min-width:125px}.layerTable td input:hover,.layerTable td input:focus{border-color:#d1ddd5;background:#fff}.layerTable b{font-weight:500}.layerTable td button{font-size:10px;padding:6px 10px}.selectedRow{background:#f3f8f5}.sourceBadge{font-size:10px;background:#f0f5f1;color:#789180;border-radius:4px;padding:5px 8px;white-space:nowrap}.stageNext{padding:18px 26px;display:flex;justify-content:space-between;align-items:center;border-top:1px solid #e7eee9;font-size:10px;color:#98a89d}.stageNext button{font-size:11px;color:#007560}.inlineDetails{margin:20px 25px;border:1px solid #e2eae5;border-radius:6px}.inlineDetails .objectTitle{padding:16px 20px 10px}.inlineDetails .objectTitle h2{font-size:17px}.inlineDetails .detailTabs{justify-content:flex-start;gap:20px}.inlineDetails .detailTabs button{flex:none;padding:10px 15px}.inlineDetails .detailBody{display:grid;grid-template-columns:repeat(4,minmax(0,1fr));gap:0 22px;padding:10px 20px 20px}.inlineDetails .sourceChip,.inlineDetails .responsibility{grid-column:1/-1}.inlineDetails .fieldPair{gap:18px;grid-column:span 2}.inlineDetails .detailBody pre{grid-column:1/-1}.connectionRecords{margin:20px 25px;border:1px solid #e3eae5;border-radius:6px;padding:15px 20px}.connectionRecords summary{cursor:pointer;color:#527361;font-size:12px}.connectionRecords>label{max-width:350px}.connectionRecords .detailBody{display:flex;gap:15px;flex-wrap:wrap;align-items:center;padding:0}.connectionRecords .detailBody>p{flex-basis:100%}.connectionRecords .detailBody>label{flex:1;min-width:220px}.connectionRecords .portRow{border:1px solid #e4ede6;padding:12px;min-width:140px}.connectionRecords .portRow>span{margin-left:15px}.stageContent>.tableScroll table{width:100%;border-collapse:collapse;text-align:left;font-size:12px}.stageContent>.tableScroll th{padding:12px 25px;background:#f8faf9;color:#8b9b94;font-size:10px;font-weight:400}.stageContent>.tableScroll td{padding:14px 25px;border-top:1px solid #edf1ef}.stageContent>.tableScroll td small{display:block;color:#9caaa2;font-size:10px;margin-top:5px}.simulationSettings{padding:0 25px 20px;display:flex;gap:20px;align-items:center;color:#91a294;font-size:10px}.simulationSettings select{font-size:11px}.m1App footer{margin-top:20px}
+@media(max-width:1050px){.stageNav>button{padding:15px 12px;gap:8px}.stageNav small,.stageNav i{display:none}.stageNav>button>span{font-size:11px}.inlineDetails .detailBody{grid-template-columns:repeat(2,minmax(0,1fr))}.stageHeading{align-items:flex-start}.stageActions{flex-direction:column}.staticLegend{gap:10px}}
+@media(max-width:700px){.overviewHeading{display:block;padding:16px}.staticLegend{margin-top:14px;flex-wrap:wrap}.overviewFoot{display:block;padding:12px 16px;line-height:1.8}.overviewFoot>span{display:block}.stageNav{overflow:auto}.stageNav>button{min-width:118px;padding:14px 10px}.stageNav>button>b{width:25px;height:25px;font-size:10px}.stageHeading{flex-direction:column;padding:20px 16px}.stageActions{flex-direction:row;flex-wrap:wrap}.stageHeading h2{font-size:20px}.inlineDetails{margin:16px}.inlineDetails .detailBody{grid-template-columns:1fr}.inlineDetails .fieldPair{grid-column:auto}.stageNext{padding:16px;gap:10px;flex-wrap:wrap}.layerTable td,.layerTable th{padding:12px 16px}.stageContent{min-height:0}}

diff --git a/frontend/e2e/workflow.spec.ts b/frontend/e2e/workflow.spec.ts
@@ -6,6 +6,7 @@ test('LV-01 editing, persistence, telemetry, SOP review and generation',async({p
  await expect(page.getByTestId('topology-canvas').locator('.x6-node')).toHaveCount(10)
  await page.getByRole('button',{name:'复制为新项目'}).click()
  await expect(page.locator('.projectBar strong')).toHaveText('LV-01 新建样板')
+ await page.getByRole('button',{name:/L3 型号与资产/}).click()
  await page.getByLabel('设备名称',{exact:true}).fill('BESS Browser Test')
  await page.getByLabel('设备序列号').fill('DEMO-SN-'+Date.now())
  await page.getByRole('button',{name:'保存版本',exact:true}).click()
@@ -13,22 +14,27 @@ test('LV-01 editing, persistence, telemetry, SOP review and generation',async({p
  await page.reload()
  // The active project survives reload via localStorage.
  await expect(page.getByLabel('选择项目')).toBeVisible()
+ await page.getByRole('button',{name:/L3 型号与资产/}).click()
  await expect(page.getByLabel('设备名称',{exact:true})).toHaveValue('BESS Browser Test')
  const node=page.getByTestId('topology-canvas').locator('.x6-node').filter({hasText:'BESS Browser Test'})
  await expect(node).toBeVisible()
  await node.scrollIntoViewIfNeeded()
  const box=await node.boundingBox();if(!box)throw new Error('No graph node')
  await page.mouse.move(box.x+65,box.y+30);await page.mouse.down();await page.mouse.move(box.x+90,box.y+55,{steps:8});await page.mouse.up()
- await expect(page.getByRole('button',{name:'保存版本',exact:true})).toBeEnabled()
- await page.getByRole('button',{name:'保存版本',exact:true}).click()
- await expect(page.getByRole('status')).toContainText('已保存不可变版本 R3')
+ await expect(page.getByRole('button',{name:'保存版本',exact:true})).toBeDisabled()
+ const after=await node.boundingBox();expect(after!.x).toBeCloseTo(box.x,0);expect(after!.y).toBeCloseTo(box.y,0)
+ await page.getByRole('button',{name:'放大拓扑',exact:true}).click()
+ await expect(page.getByRole('button',{name:'保存版本',exact:true})).toBeDisabled()
+ const zoomed=await node.boundingBox();expect(zoomed!.width).toBeGreaterThan(after!.width)
+ await page.getByRole('button',{name:'适应全部拓扑',exact:true}).click()
+ await page.getByRole('button',{name:/L6 规则与评审/}).click()
  await page.getByLabel('模拟遥测').selectOption('reverse')
  await expect(page.locator('.flow.reverse')).toHaveCount(1)
  await page.getByLabel('模拟遥测').selectOption('stale')
  await expect(page.locator('.flow')).toHaveCount(0)
- await page.getByRole('button',{name:'✓ 校验模型',exact:true}).click()
+ await page.getByRole('button',{name:'运行数据规则检查',exact:true}).click()
  await expect(page.getByText('✓ 数据结构检查通过；不代表工程批准。')).toBeVisible()
- expect((await page.getByTestId('topology-canvas').boundingBox())!.height).toBe(560)
+ expect((await page.getByTestId('topology-canvas').boundingBox())!.height).toBe(410)
  await page.screenshot({path:'../docs/demo-m1.png',fullPage:true})
  await page.getByRole('button',{name:/引导式安装/}).click()
  await page.getByRole('button',{name:'生成安装计划'}).click()

diff --git a/frontend/e2e/connections.spec.ts b/frontend/e2e/connections.spec.ts
@@ -4,6 +4,7 @@ test('scan and manual intake persist, reject duplicate SN, and enforce port doma
  await expect(page.getByTestId('topology-canvas').locator('.x6-node')).toHaveCount(10)
  await page.getByRole('button',{name:'复制为新项目'}).click()
  await expect(page.locator('.projectBar strong')).toHaveText('LV-01 新建样板')
+ await page.getByRole('button',{name:/L3 型号与资产/}).click()
  await page.getByRole('button',{name:/扫码录入 LIVOLTEK/}).click()
  await page.getByLabel('二维码内容').fill('unrecognized-vendor-code')
  await page.getByRole('button',{name:'解析设备',exact:true}).click()
@@ -30,7 +31,8 @@ test('scan and manual intake persist, reject duplicate SN, and enforce port doma
  await page.getByRole('button',{name:'加入系统模型'}).click()
  await expect(page.getByTestId('topology-canvas').locator('.x6-node')).toHaveCount(12)
  const id=await page.locator('.objectTitle small').innerText()
- await page.getByRole('button',{name:'端口连接',exact:true}).click()
+ await page.getByRole('button',{name:/L4 端口与连接/}).click()
+ await page.getByText('维护端口记录与新增连接',{exact:true}).click()
  await page.getByLabel('来源端口',{exact:true}).selectOption(id+'.AC')
  await page.getByLabel('目标端口',{exact:true}).selectOption('EMS_01.ETH1')
  await page.getByRole('button',{name:'添加连接',exact:true}).click()
@@ -42,10 +44,12 @@ test('scan and manual intake persist, reject duplicate SN, and enforce port doma
  await expect(page.getByRole('status')).toContainText('已保存不可变版本')
  await page.reload()
  await expect(page.getByTestId('topology-canvas').locator('.x6-node')).toHaveCount(12)
- await page.getByRole('button',{name:/Third-party PV acceptance/}).click()
+ await page.getByRole('button',{name:/L3 型号与资产/}).click()
+ await page.getByRole('button',{name:'查看设备 Third-party PV acceptance',exact:true}).click()
  await expect(page.getByLabel('设备序列号')).toHaveValue('TP-ACCEPTANCE-01')
  await page.getByRole('button',{name:'资料记录',exact:true}).click()
  await expect(page.getByText('DATASHEET-ACCEPTANCE',{exact:true})).toBeVisible()
- await page.getByRole('button',{name:'✓ 校验模型',exact:true}).click()
+ await page.getByRole('button',{name:/L6 规则与评审/}).click()
+ await page.getByRole('button',{name:'运行数据规则检查',exact:true}).click()
  await expect(page.getByText('✓ 数据结构检查通过；不代表工程批准。')).toBeVisible()
 })

diff --git a/README.md b/README.md
@@ -90,3 +90,12 @@ The independent React app now opens directly to the six-layer engineering worksp
 - Validation: TypeScript/Vite build, 19 backend tests, browser workflows covering malformed scan input, duplicate SN rejection, both intake paths, invalid electrical connections, persistence, telemetry states and M2 regression.
 
 Preview: http://127.0.0.1:8000/ . Start with the existing `scripts/start.ps1` instructions above.
+
+### M1 layout revision: layered workflow and read-only generated topology
+
+The top project layout is retained. The former three-column editor and standalone intake strip have been replaced by a full-width system overview followed by L2-L6 workflow tabs.
+
+- L2 embeds Add Electrical Structure. L3 embeds LIVOLTEK scan intake and third-party manual intake. L4 contains recorded ports/connections; L5 shows configuration comparison; L6 contains rule checks, review, provenance and telemetry settings.
+- Topology geometry is automatically derived from the recorded electrical graph, rooted at PCC objects. Objects without a recorded electrical path are displayed separately. It does not infer or invent connections.
+- The X6 canvas has no mutation callbacks, selection editing, node dragging, port dragging or panning. Only zooming/fit-to-view is enabled. Zoom does not dirty the engineering model. Existing saved manual layout coordinates are ignored by this view.
+- Browser regression checks cover a failed node-drag attempt leaving geometry unchanged, zoom changing the viewport without enabling Save, both intake workflows, SN rejection, connection validation, persistence and M2 regression.
